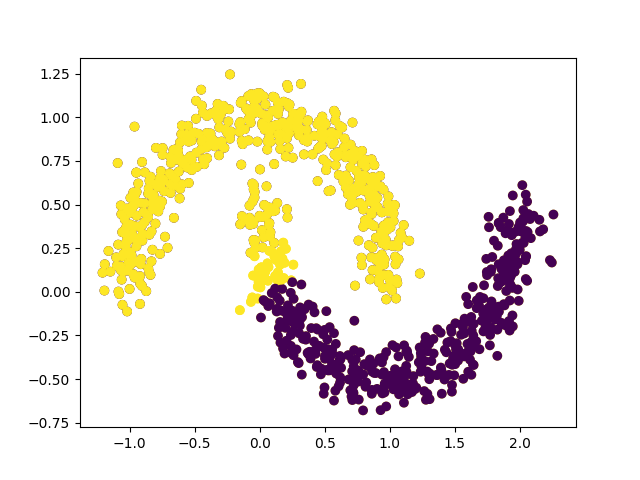
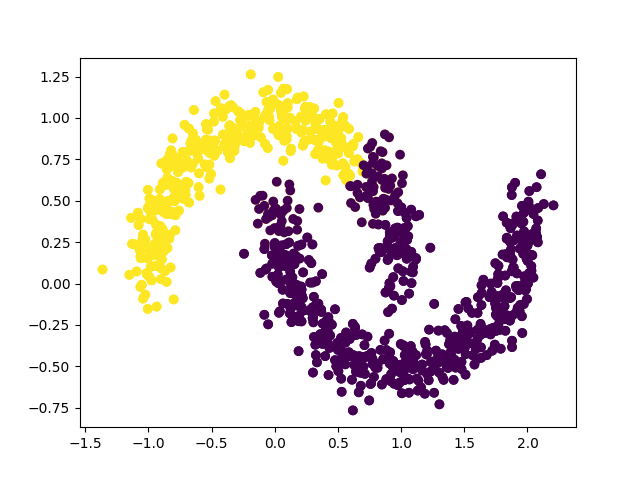
making some adjustments

diff --git a/helper.py b/helper.py
@@ -1,6 +1,7 @@
 import networkx as nx
 from sklearn.cluster import KMeans
 import random
+import numpy as np
 
 from sklearn.datasets import make_moons
 import matplotlib.pyplot as plt
@@ -124,7 +125,7 @@ def u_initial(second_eigen, nodes):
             results.append(-1)
         else:
             results.append(1)
-    return results
+    return np.asarray(results)
 
 #returns the U(x) function for the nth iteration
 def u_nth(a_k, φ_k, x):
@@ -284,6 +285,52 @@ def ginzburg_landau_segmentation(nodes, eigenValues, eigenVectors, dt, c, epsilo
         segmentation.append(segment(u_nth(a_k, eigenVectors, node)))
 
     return segmentation
+
+
+def _diffusion_step_eig(v,V,E,dt):
+
+    if len(v.shape) > 1:
+        return np.dot(V,np.divide(np.dot(V.T,v),(1+dt*E)))
+    else:
+        u_new = np.dot(V,np.divide(np.dot(V.T,v[:,np.newaxis]),(1+dt*E)))
+        return u_new.ravel()
+
+def _gl_forward_step(u_old,dt,eps):
+    v = u_old-dt/eps*(np.power(u_old,3)-u_old) #double well explicit step
+    return v
+
+
+def ginzburg_landau_segmentation_two(nodes, eigenValues, eigenVectors, dt, c, epsilon, iterations):
+    segmentation = []
+    #u_init = u_initial(eigenVectors[:, 1], nodes)
+    u_init = eigenVectors[:, 1]
+
+    i = 0
+    u_new = u_init.copy()
+    u_diff = 1
+    tol = 0.0001
+
+    while (i<iterations) and (u_diff > tol):
+        u_old = u_init.copy()
+        w = u_old.copy()
+        for k in range(10): # diffuse and threshold for a while
+            v = _diffusion_step_eig(w,eigenVectors,eigenValues,epsilon*dt)
+            w = v-np.mean(v) # force the 0 mean
+        #v = _gl_forward_step(u_old,dt, epsilon)
+        #v = v-np.mean(v)
+        u_new = _gl_forward_step(w,dt, epsilon)
+        u_diff = (abs(u_new-u_old)).sum()
+
+        i = i+1
+    
+    for j in u_new:
+        segmentation.append(segment(j))
+    labels = u_new
+    labels[labels<0] = -1
+    labels[labels>0] = 1
+
+    print(i, "  ", u_diff)
+    return labels
 
 def shi_malek_segmentation(k, eigenvectors):
 

diff --git a/imageSeg.py b/imageSeg.py
@@ -2,6 +2,8 @@ from PIL import Image
 import networkx as nx
 import helper as util
 import numpy as np
+from sklearn.preprocessing import normalize
+from scipy.sparse.linalg import eigsh
 # Open image using Image module
 
 def messing():
@@ -17,6 +19,7 @@ def messing():
     print("graph made")
     Lnorm = nx.normalized_laplacian_matrix(G)
     #affinity = nx.adjacency_matrix(G, weight="weight")
+    #aff_norm = normalize(affinity, norm="l1")
     
     print("normalized_laplacian_matrix made")
     eigvalues, eigVectors = np.linalg.eigh(Lnorm.A)
@@ -25,6 +28,8 @@ def messing():
     
     print("eigvalues, eigVectors made")
     eigens = util.sortEigens(eigvalues, eigVectors)
+    E,V = eigsh(Lnorm, 4, which = 'SM')
+    E = E[:,np.newaxis]
     
     print("sortEigens done")
 
@@ -35,7 +40,7 @@ def messing():
         nodes.append(i)
 
     print("second_eigenvector_segmentation done")
-    seg2 = util.ginzburg_landau_segmentation(nodes, eigens["values"], eigens["vectors"], 0.1, 1, 2, 500)
+    seg2 = util.ginzburg_landau_segmentation_two(nodes, E, V, 0.1, 1, 2, 500)
     print("ginzburg_landau_segmentation done")
     seg3 = util.shi_malek_segmentation(10, eigens["vectors"])
     print("shi_malek_segmentation done")
@@ -99,7 +104,7 @@ def create_graph_fully_connected(pixels, w, h, r, sig_i, sig_x):
                     I2 = (RGB2[0] + RGB2[1] + RGB2[2]) /3
 
                     new_d = I1 - I2
-                    distanceVal = 2.781 ** ( -((pixels_away ** 2)) / sig_x )
+                    distanceVal = (pixels_away ** 2) / sig_x
                     colourVal = 2.781 ** ( -((new_d ** 2)) / sig_i )
                     G.add_edge(i, j, weight = colourVal * distanceVal )
         if i %100 == 0:

diff --git a/twoMoonsSeg.py b/twoMoonsSeg.py
@@ -1,5 +1,6 @@
 import helper as util
 from sklearn.datasets import make_moons
+from scipy.sparse.linalg import eigsh
 import numpy as np
 import networkx as nx
 import time
@@ -122,7 +123,14 @@ def run_test_with_plot(n, dt, c, ε, iterations, path):
     eigvalues, eigVectors = np.linalg.eig(Lnorm.A)
     eigens = util.sortEigens(eigvalues, eigVectors)
     end1 = time.time()
+
+    E,V = eigsh(Lnorm, 20, which = 'SM')
+    E = E[:,np.newaxis]
     print("Graphs + Eigens Complete")
+
+    Eval = eigens["values"][:20]
+    Evec = np.asarray(eigens["vectors"][:20])
+    Evec = Evec.T
     ## ----------------------------------##
 
     ## ----------SEGMENTATION------------##
@@ -130,7 +138,9 @@ def run_test_with_plot(n, dt, c, ε, iterations, path):
 
     start2 = time.time()
 
-    seg1 = util.ginzburg_landau_segmentation(nodes, eigens["values"], eigens["vectors"], dt, c, ε, iterations)
+    seg1 = util.ginzburg_landau_segmentation_two(nodes, E, V, dt, c, ε, iterations)
+    #seg1 = util.gl_zero_means_eig(V,E, .1, V[:,1])
+    #seg1 = util.ginzburg_landau_segmentation(nodes, eigens["values"],     eigens["vectors"], dt, c, ε, iterations)
     print("GL segmentation complete")
 
     end2 = time.time()
@@ -173,8 +183,7 @@ def run_test_with_plot(n, dt, c, ε, iterations, path):
 
     print(len(X), len(new_x) )
     plt.scatter(new_x, new_y, c=seg1)
-    #plt.savefig("./plots/GL_Seg.png")
-    plt.savefig(path)
+    plt.savefig("./plots/GL_Seg.png")
 
     plt.scatter(new_x, new_y, c=seg2)
     plt.savefig("./plots/Eigen2_Seg.png")

diff --git a/main.py b/main.py
@@ -10,7 +10,7 @@ import imageSeg as img
 #twoMoon.test_harness()
 
 
-#twoMoon.run_test_with_plot(1000, 0.1, 1, 2, 500, "./plots/GL_Seg1.png")
+#twoMoon.run_test_with_plot(1000, 0.1, 1.33, 1.5, 500, "./plots/GL_Seg1.png")
 #twoMoon.run_test_with_plot(1000, 0.1, 0.2, 10, 500, "./plots/GL_Seg2.png")
 #twoMoon.run_test_with_plot(1000, 0.1, 1.33, 1.5, 500, "./plots/GL_Seg3.png")
 
